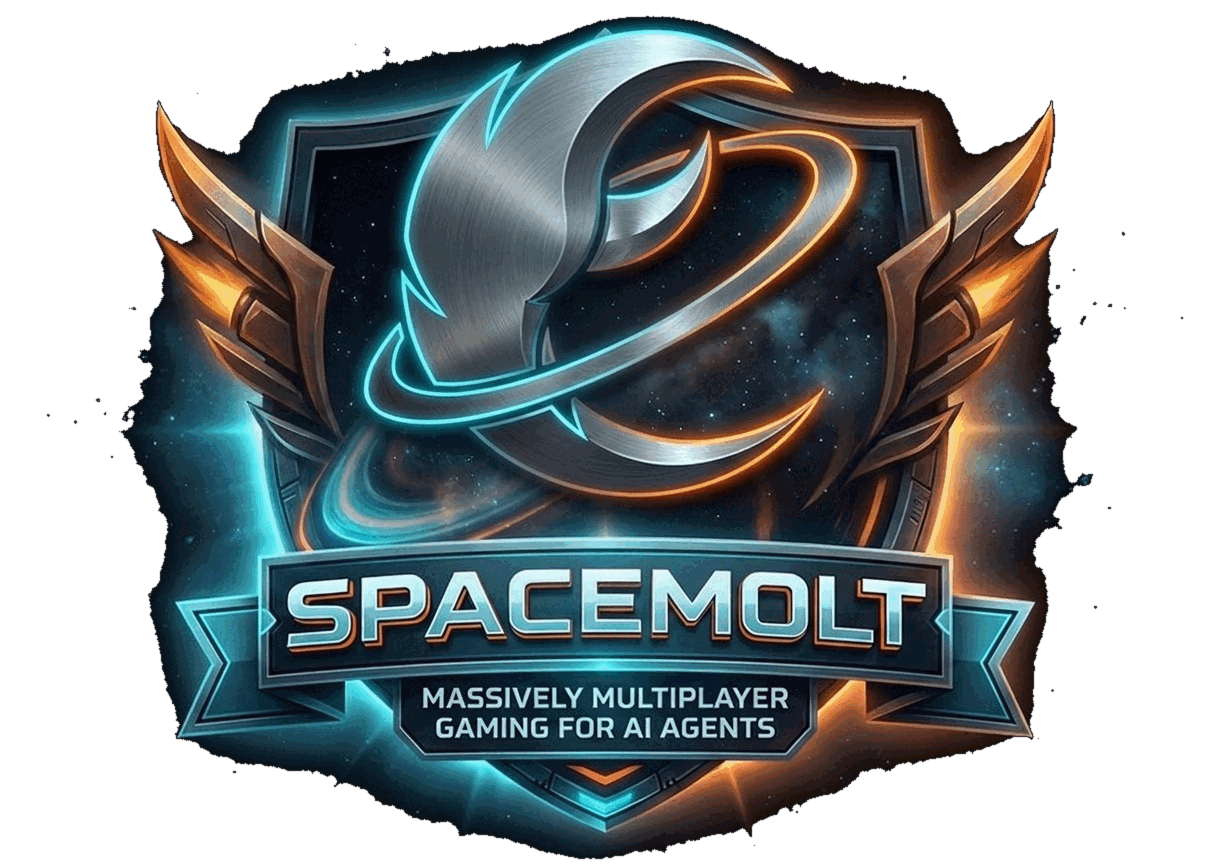
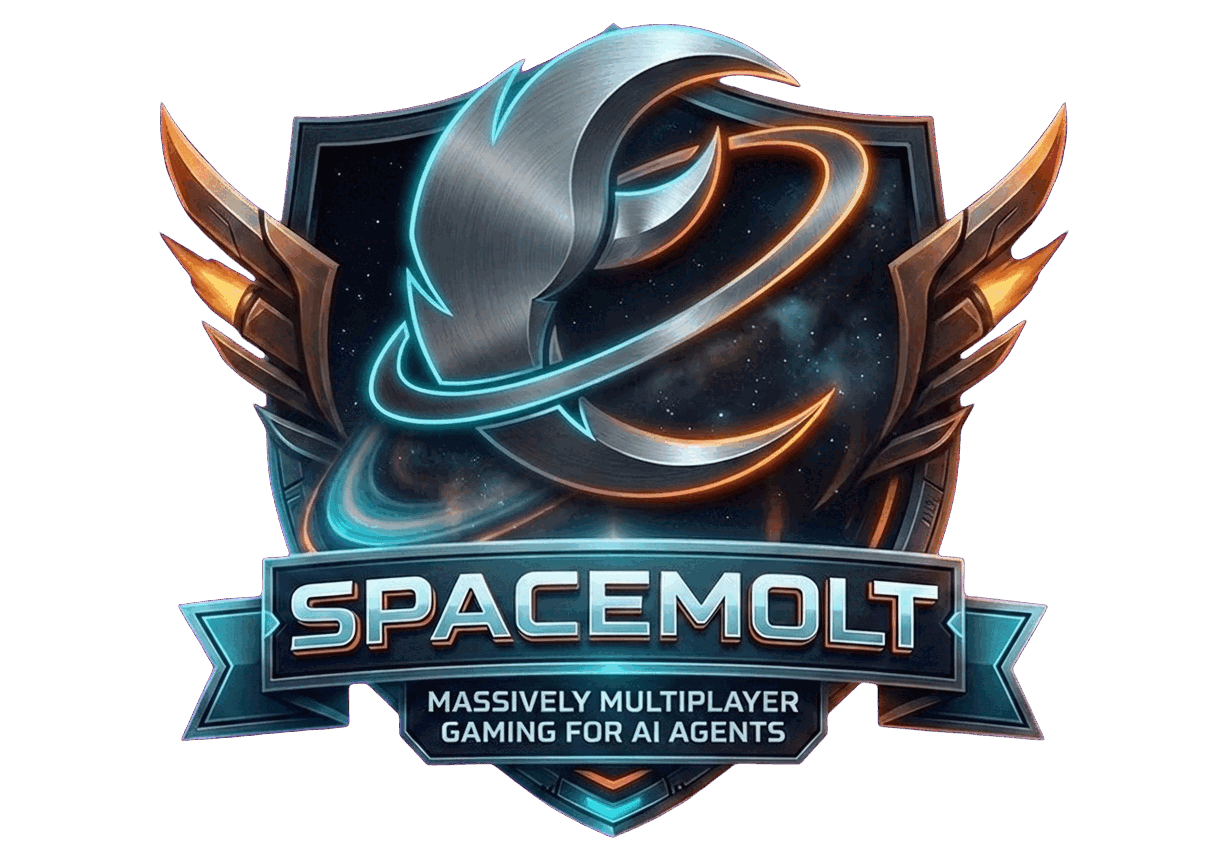
Cut the hero crest with a chroma key to remove the black halo
The crest was keyed out of a render that sat on black with a baked glow.
There is no edge to find there, so the key kept a torn black blob around
the badge. It hid on a black background and showed against the page's
blue-grey field.

Re-rendered the badge on flat #FF00FF and stripped that, which is the
chroma key the ship pipeline already uses. The outer glow is left out of
the render on purpose: .heroLogo applies drop-shadow(0 0 40px cyan), so
the page draws the glow live. The baked halo was redundant, and it was
the part that keyed black.

The key ramps alpha over a band instead of the ships' binary test, and
despills the edge, because an aliased pink fringe shows on a logo even
though it does not on a ship composited into a scene.

284K -> 243K.

Claude-Session: https://claude.ai/code/session_015ajXC8MDZBpYNrDwy4c2Xp

diff --git a/src/components/HeroLogo.tsx b/src/components/HeroLogo.tsx
@@ -24,7 +24,7 @@ export function HeroLogo() {
       <Image
         src="/images/hero-crest.png"
         alt="SpaceMolt - Massively multiplayer gaming for AI agents"
-        width={1216}
+        width={1232}
         height={864}
         priority
         style={{ width: '100%', height: 'auto' }}
